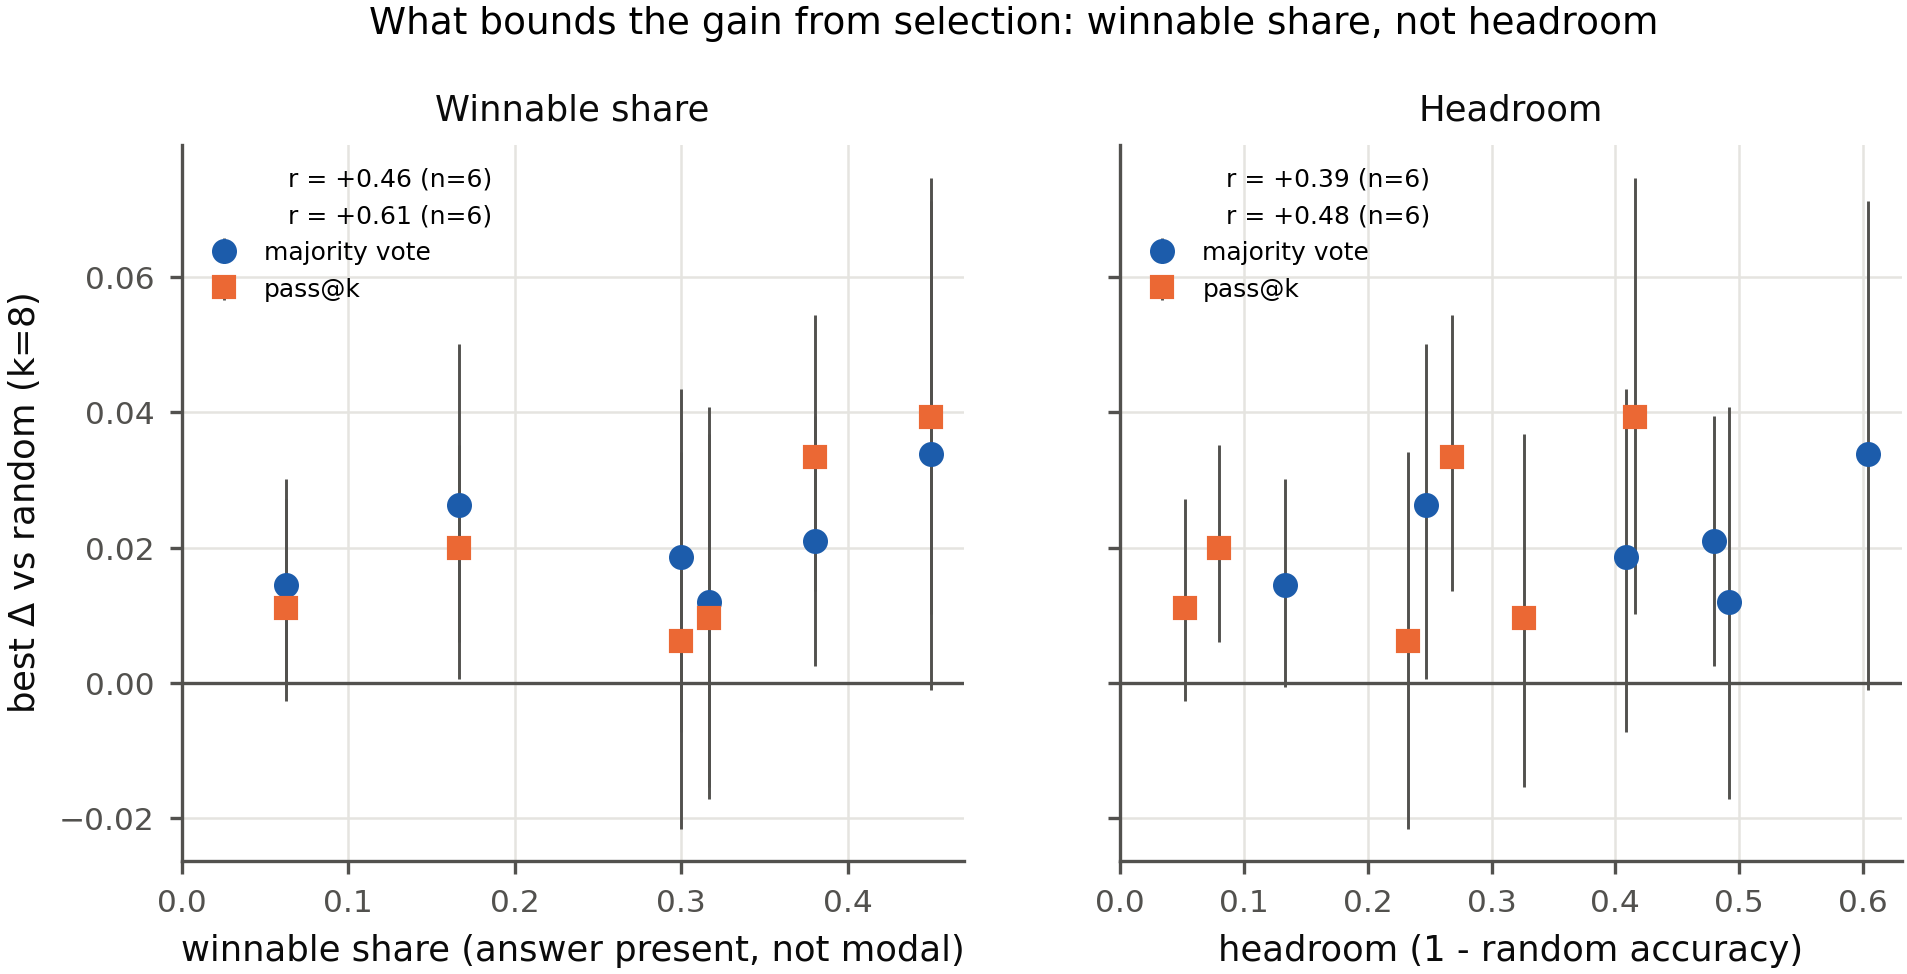
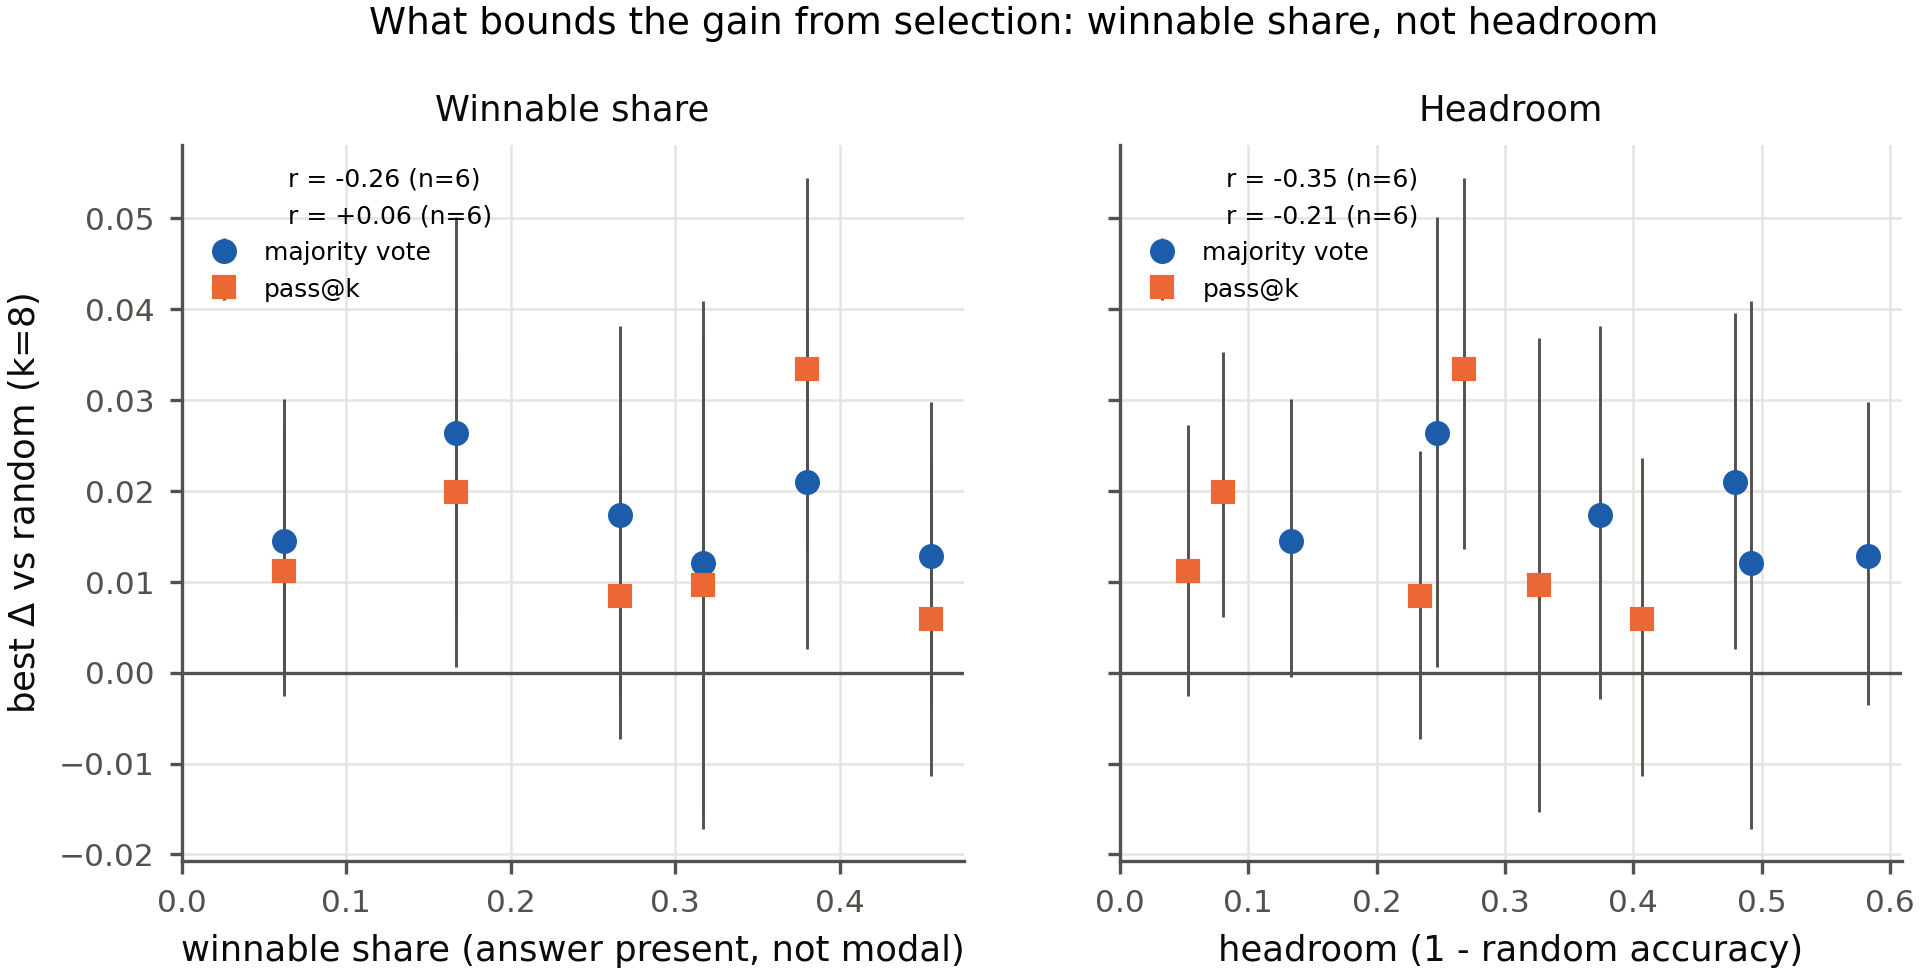
Final assemble with extended MATH banks: head-to-head result unchanged at full scale
Qwen2.5-0.5B MATH extended to 180 questions and Qwen2.5-1.5B MATH to 120, bringing the study to 744 questions across six cells. The head-to-head verdict is unchanged: on the answer kernel diversity wins pass@k in 6 of 6 cells (+0.167) while coverage wins majority vote (-0.160) and verifier best-of-n (-0.208) in 6 of 6. All figures and RESULTS.md regenerated from cache.

diff --git a/RESULTS.md b/RESULTS.md
@@ -1,7 +1,7 @@
 # Results: Diversity vs. Coverage for LLM Reasoning
 
 Generated by `scripts/write_results.py` from `cache/` only — no number in this file
-was entered by hand. Last regenerated 2026-08-01T01:26:02.352873+00:00.
+was entered by hand. Last regenerated 2026-08-01T01:40:05.022648+00:00.
 
 Definitions follow Dieng's Vendi Score family (Friedman & Dieng 2023; Pasarkar &
 Dieng, *Cousins of the Vendi Score*, arXiv:2310.12952): **VS_q is the exponential of
@@ -198,18 +198,21 @@ conditioning table and stays meaningful on the answer kernel.
 | Qwen2.5-0.5B / MATH | verifier best-of-n | tail:minority | VS_0.1 | +0.035 | [-0.019, +0.092] | 1.000 | not significant |
 | Qwen2.5-0.5B / MATH | verifier best-of-n | tail:modal | VS_0.5 | +0.022 | [-0.013, +0.052] | 1.000 | not significant |
 | Qwen2.5-0.5B / MATH | verifier best-of-n | tail:tail | VS_inf | -0.007 | [-0.025, +0.012] | 0.656 | practically null |
-| Qwen2.5-1.5B / MATH | majority vote | all | facility location | +0.019 | [-0.007, +0.044] | 1.000 | not significant |
-| Qwen2.5-1.5B / MATH | majority vote | tail:minority | VS_2 | +0.006 | [-0.030, +0.043] | 1.000 | practically null |
-| Qwen2.5-1.5B / MATH | majority vote | tail:modal | facility location | +0.034 | [+0.003, +0.066] | 0.224 | not significant |
-| Qwen2.5-1.5B / MATH | majority vote | tail:tail | VS_inf | +0.047 | [-0.011, +0.107] | 1.000 | not significant |
-| Qwen2.5-1.5B / MATH | pass@k | all | facility location | +0.006 | [-0.022, +0.034] | 1.000 | practically null |
-| Qwen2.5-1.5B / MATH | pass@k | tail:minority | VS_inf | +0.015 | [-0.071, +0.104] | 1.000 | not significant |
-| Qwen2.5-1.5B / MATH | pass@k | tail:modal | facility location | +0.013 | [-0.007, +0.032] | 1.000 | not significant |
-| Qwen2.5-1.5B / MATH | pass@k | tail:tail | coverage | +0.013 | [-0.053, +0.063] | 1.000 | not significant |
-| Qwen2.5-1.5B / MATH | verifier best-of-n | all | coverage | +0.013 | [-0.019, +0.043] | 1.000 | not significant |
-| Qwen2.5-1.5B / MATH | verifier best-of-n | tail:minority | VS_0.5 | +0.031 | [-0.048, +0.120] | 1.000 | not significant |
-| Qwen2.5-1.5B / MATH | verifier best-of-n | tail:modal | facility location | +0.009 | [-0.037, +0.054] | 1.000 | practically null |
-| Qwen2.5-1.5B / MATH | verifier best-of-n | tail:tail | VS_0.1 | +0.016 | [-0.040, +0.073] | 1.000 | not significant |
+| Qwen2.5-1.5B / MATH | majority vote | all | facility location | +0.017 | [-0.003, +0.038] | 0.640 | not significant |
+| Qwen2.5-1.5B / MATH | majority vote | tail:absent | VS_0.1 | +0.000 | [+0.000, +0.000] | 1.000 | practically null |
+| Qwen2.5-1.5B / MATH | majority vote | tail:minority | facility location | +0.036 | [-0.016, +0.094] | 1.000 | not significant |
+| Qwen2.5-1.5B / MATH | majority vote | tail:modal | facility location | +0.016 | [-0.006, +0.042] | 1.000 | not significant |
+| Qwen2.5-1.5B / MATH | majority vote | tail:tail | VS_0.1 | -0.009 | [-0.017, -0.002] | 0.064 | practically null |
+| Qwen2.5-1.5B / MATH | pass@k | all | VS_2 | +0.008 | [-0.007, +0.024] | 1.000 | practically null |
+| Qwen2.5-1.5B / MATH | pass@k | tail:absent | VS_0.1 | +0.000 | [+0.000, +0.000] | 1.000 | practically null |
+| Qwen2.5-1.5B / MATH | pass@k | tail:minority | facility location | +0.036 | [-0.033, +0.102] | 1.000 | not significant |
+| Qwen2.5-1.5B / MATH | pass@k | tail:modal | VS_1 | +0.016 | [+0.005, +0.027] | 0.008 | significant |
+| Qwen2.5-1.5B / MATH | pass@k | tail:tail | VS_2 | +0.013 | [-0.059, +0.100] | 1.000 | not significant |
+| Qwen2.5-1.5B / MATH | verifier best-of-n | all | facility location | +0.025 | [+0.003, +0.050] | 0.192 | not significant |
+| Qwen2.5-1.5B / MATH | verifier best-of-n | tail:absent | VS_0.1 | +0.000 | [+0.000, +0.000] | 1.000 | practically null |
+| Qwen2.5-1.5B / MATH | verifier best-of-n | tail:minority | facility location | +0.043 | [-0.005, +0.100] | 0.686 | not significant |
+| Qwen2.5-1.5B / MATH | verifier best-of-n | tail:modal | VS_inf | +0.029 | [+0.003, +0.056] | 0.304 | not significant |
+| Qwen2.5-1.5B / MATH | verifier best-of-n | tail:tail | VS_0.1 | -0.016 | [-0.024, -0.008] | 0.008 | significant |
 | Llama-3.2-3B / MATH | majority vote | all | facility location | +0.012 | [-0.017, +0.041] | 1.000 | not significant |
 | Llama-3.2-3B / MATH | majority vote | tail:absent | VS_0.1 | +0.000 | [+0.000, +0.000] | 1.000 | practically null |
 | Llama-3.2-3B / MATH | majority vote | tail:minority | facility location | +0.002 | [-0.058, +0.075] | 1.000 | practically null |
@@ -256,8 +259,8 @@ listed separately as model-specific, not as results of the study.
 | pass@k | tail:modal | VS_0 | +0.011 | +0.004 | -0.003 | no (model-specific) |
 | pass@k | tail:modal | VS_2 | +0.003 | +0.025 | +0.007 | no (model-specific) |
 | pass@k | tail:modal | VS_inf | +0.003 | +0.021 | +0.012 | no (model-specific) |
-| pass@k | tail:tail | VS_0.1 | +0.013 | +0.061 | -0.044 | no (model-specific) |
-| pass@k | tail:tail | coverage | +0.013 | +0.068 | +0.013 | no (model-specific) |
+| pass@k | tail:tail | VS_0.1 | +0.013 | +0.061 | -0.009 | no (model-specific) |
+| pass@k | tail:tail | coverage | +0.013 | +0.068 | -0.009 | no (model-specific) |
 | verifier best-of-n | tail:minority | VS_0 | +0.114 | -0.004 | +0.058 | no (model-specific) |
 | verifier best-of-n | tail:minority | VS_0.5 | +0.074 | -0.004 | +0.073 | no (model-specific) |
 | verifier best-of-n | tail:minority | VS_1 | +0.114 | +0.009 | +0.058 | no (model-specific) |
@@ -273,8 +276,8 @@ the diversity arm (VS_1) and the coverage arm**, bootstrapped over questions.
 
 | space | verdicts across all conditions |
 |---|---|
-| K_emb (question-centred) | 88 tie (practically null), 64 tie, 5 diversity, 5 coverage (of 162) |
-| K_ans | 71 coverage, 44 diversity, 30 tie, 17 tie (practically null) (of 162) |
+| K_emb (question-centred) | 96 tie (practically null), 56 tie, 8 diversity, 5 coverage (of 165) |
+| K_ans | 70 coverage, 46 diversity, 29 tie, 20 tie (practically null) (of 165) |
 
 On the embedding kernel the two are **statistically indistinguishable in the
 large majority of conditions**. On the answer kernel they separate sharply and
@@ -284,9 +287,9 @@ in a completely consistent direction.
 
 | rule | winner | mean (div - cov) | div vs random | cov vs random | cells |
 |---|---|---:|---:|---:|---|
-| pass@k | **diversity** | +0.163 | +0.032 | -0.131 | 6/6 |
-| majority vote | **coverage** | -0.166 | -0.186 | -0.020 | 6/6 |
-| verifier best-of-n | **coverage** | -0.213 | -0.167 | +0.046 | 6/6 |
+| pass@k | **diversity** | +0.167 | +0.033 | -0.134 | 6/6 |
+| majority vote | **coverage** | -0.160 | -0.188 | -0.028 | 6/6 |
+| verifier best-of-n | **coverage** | -0.208 | -0.170 | +0.038 | 6/6 |
 
 **Diversity wins pass@k in 6 of 6 cells; coverage wins majority vote and
 verifier best-of-n in 6 of 6 cells.** No exceptions.
@@ -321,9 +324,9 @@ diversity, not coverage.
 | id | statement | delta | 95% CI | verdict |
 |---|---|---:|---|---|
 | H0 | Some selection objective beats random (MV, all questions) | +0.026 | [+0.001, +0.050] | accept |
-| H1 | Coverage hurts majority vote on modal questions | +0.010 | n/a | reject |
-| H2 | Coverage helps pass@k on minority/tail questions | +0.030 | n/a | accept |
-| H3 | VS_inf helps pass@k overall | +0.006 | n/a | accept |
+| H1 | Coverage hurts majority vote on modal questions | +0.006 | n/a | reject |
+| H2 | Coverage helps pass@k on minority/tail questions | +0.026 | n/a | accept |
+| H3 | VS_inf helps pass@k overall | +0.009 | n/a | accept |
 | H4 | No objective beats random when the answer is absent | +0.000 | n/a | accept |
 | H5 | On K_ans every q behaves identically (Theorem 4.1) | +0.069 | [+0.000, +0.069] | reject |
 | H6 | Answer-aware mixing (alpha>0) is required to beat random on MV | n/a | n/a | see TB-4 |
@@ -352,11 +355,11 @@ tightly than raw headroom, which counts absent questions a selector cannot win.
 | Qwen2.5-0.5B / MATH | pass@k | 0.478 | 0.456 | 0.407 | +0.006 | VS_inf |
 | Qwen2.5-1.5B / GSM8K | majority vote | 0.833 | 0.167 | 0.247 | +0.026 | VS_1 |
 | Qwen2.5-1.5B / GSM8K | pass@k | 0.833 | 0.167 | 0.080 | +0.020 | VS_inf |
-| Qwen2.5-1.5B / MATH | majority vote | 0.675 | 0.267 | 0.409 | +0.019 | facility location |
-| Qwen2.5-1.5B / MATH | pass@k | 0.675 | 0.267 | 0.233 | +0.006 | facility location |
+| Qwen2.5-1.5B / MATH | majority vote | 0.675 | 0.267 | 0.374 | +0.017 | facility location |
+| Qwen2.5-1.5B / MATH | pass@k | 0.675 | 0.267 | 0.233 | +0.008 | VS_2 |
 
 Across cells the winnable share tracks the achievable gain more closely than
-headroom does — majority vote: winnable r = -0.26 vs headroom r = -0.35 (n = 6); pass@k: winnable r = +0.06 vs headroom r = -0.20 (n = 6).
+headroom does — majority vote: winnable r = -0.26 vs headroom r = -0.35 (n = 6); pass@k: winnable r = +0.06 vs headroom r = -0.21 (n = 6).
 
 **This is a descriptive pattern across a handful of cells, not an estimated
 law.** With so few points the correlation has a wide interval and the two
